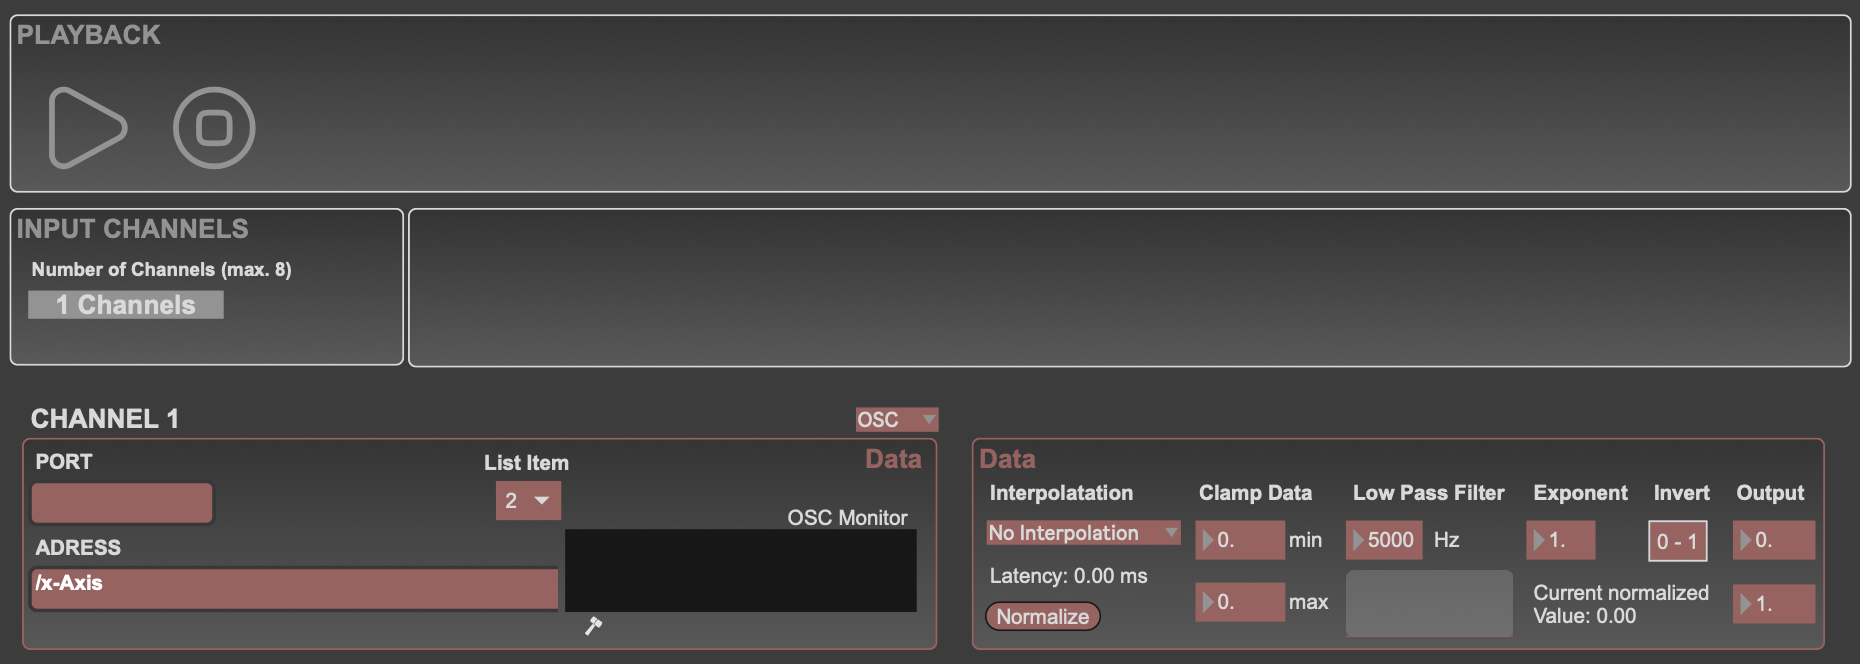
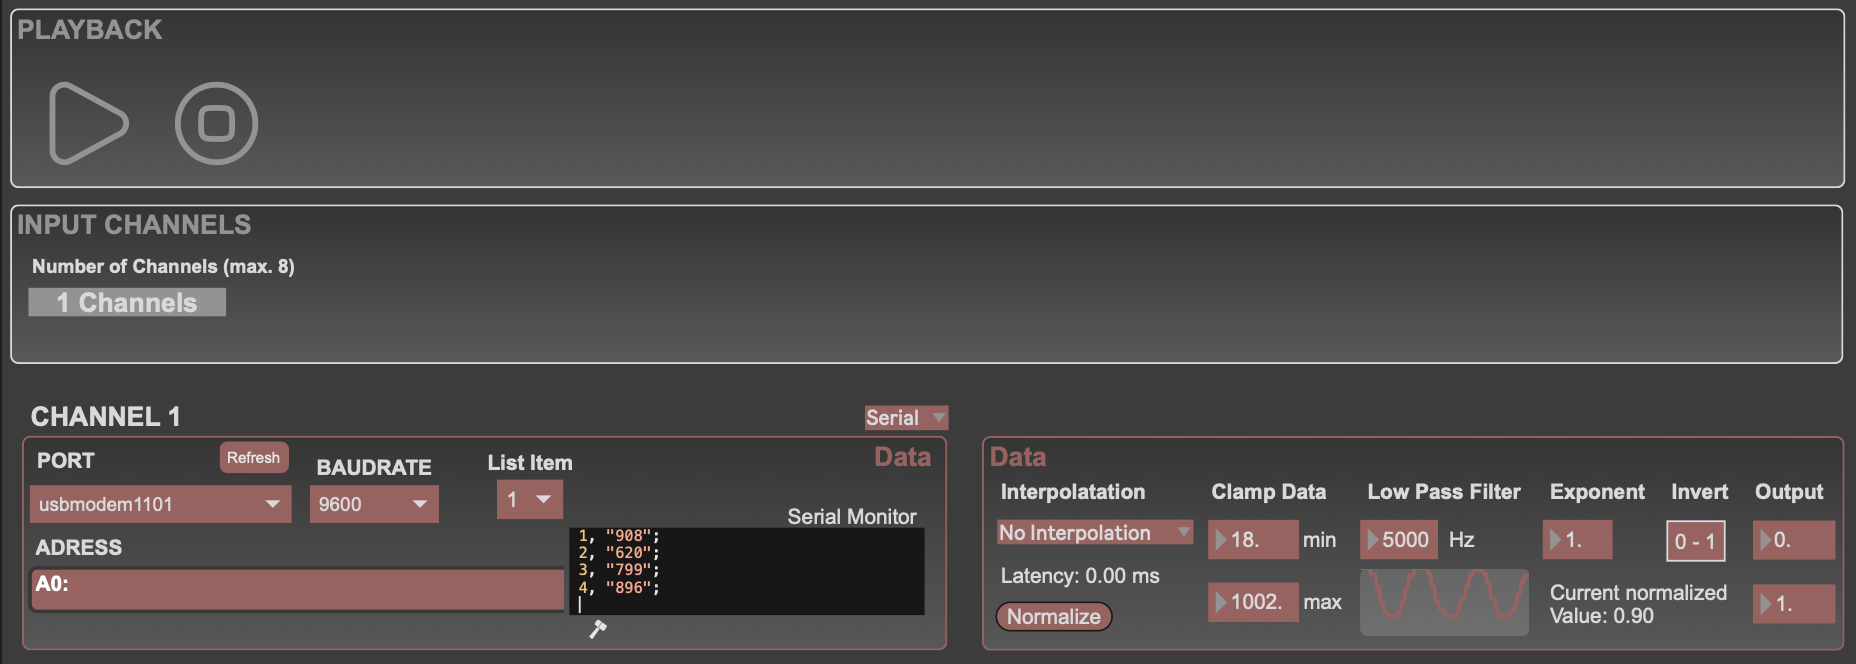
minor changes in mode display

diff --git a/README.md b/README.md
@@ -14,11 +14,6 @@ Max Project for the **Advanced Sonification Toolkit**.
 - [Funding & Research Context](#funding--research-context)
 - [Functionality Summary](#functionality-summary)
 - [User Interface Overview](#user-interface-overview)
-  - [Recorded Data Mode](#recorded-data-mode)
-  - [Real-Time Input Mode](#real-time-input-mode)
-  - [Input Channels](#input-channels)
-  - [Data Processing Controls](#data-processing-controls)
-  - [Processing and Routing](#processing-and-routing)
 - [Sound Design Modules](#sound-design-modules)
 - [Detection Modules](#detection-modules)
 
@@ -32,10 +27,12 @@ The toolkit addresses a common limitation in sonification practice: systems are 
 
 It supports both recorded datasets and live sensor input (via Serial or OSC), which are processed through a shared architecture for data shaping, feature extraction, mapping, and sound generation. A matrix-based routing system enables the assignment of raw or derived data streams to sound parameters across multiple sound design modules.
 
-The toolkit follows a modular architecture, separating input handling, processing, detection, mapping, and sound synthesis. This allows users to reconfigure sonification setups and extend the system with custom modules without modifying the core structure.
+The toolkit follows a modular architecture, separating input handling, processing, detection, mapping, and sound synthesis. 
+This allows users to reconfigure sonification setups and extend the system with custom modules without modifying the core structure.
 AST_v2 is intended both as a practical tool for building movement sonification systems and as a platform for exploring and comparing different sonification approaches.
 
-The toolkit enables movement-based sonification of sensor data through two input modes:
+
+**The toolkit enables movement-based sonification of sensor data through two input modes:**
 
 - **Recorded Data Mode**: for playback and analysis of pre-recorded datasets  
 - **Real-Time Input Mode**: for live sonification of incoming sensor streams  
